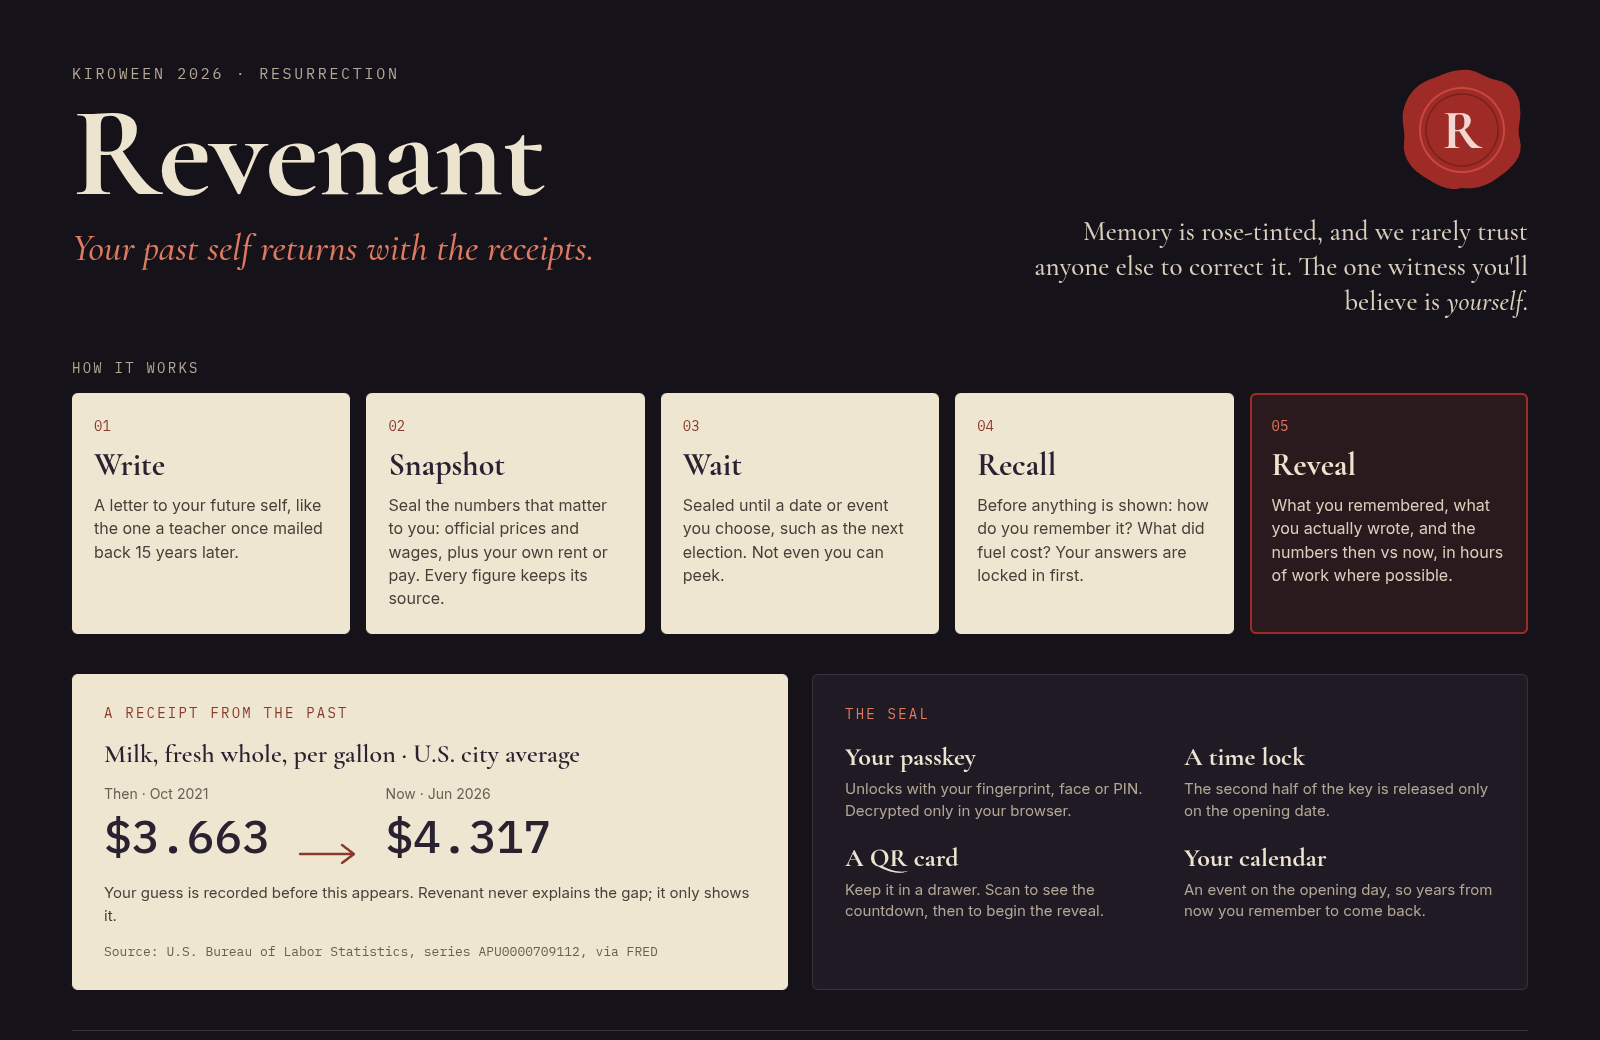
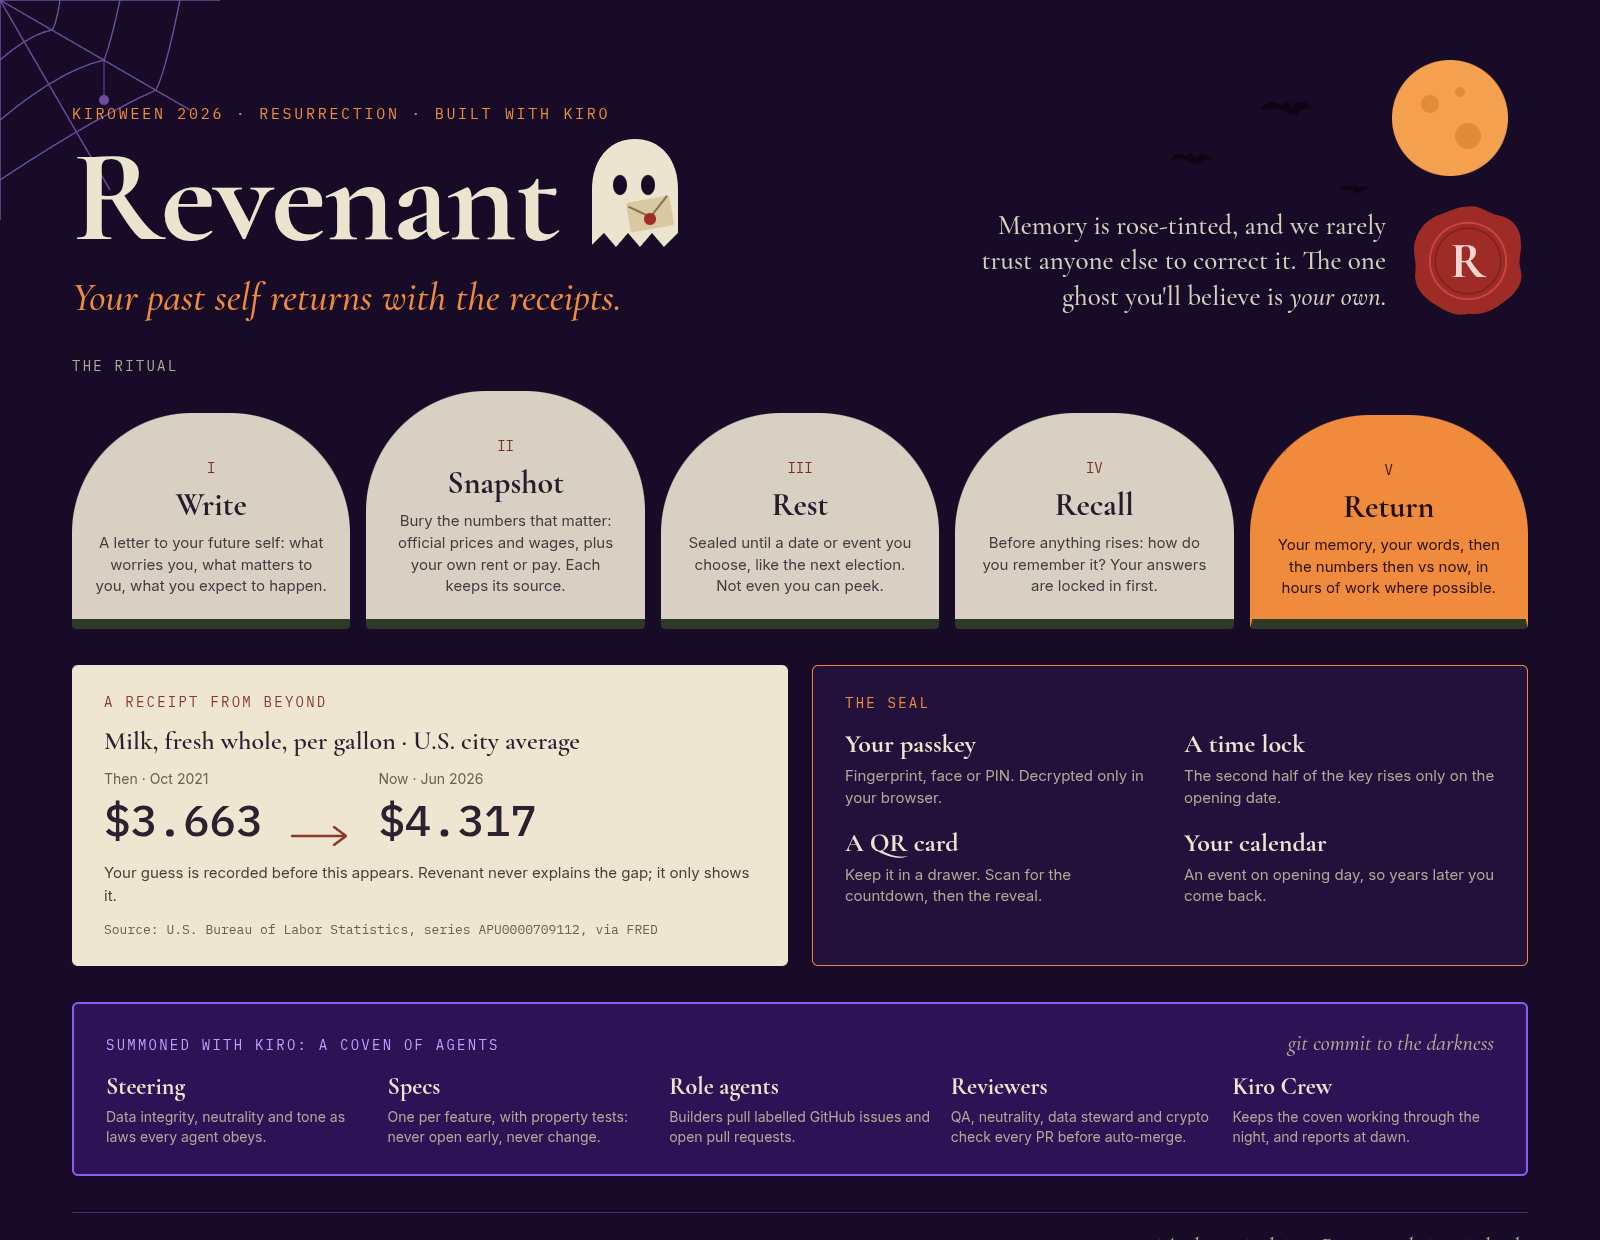
Update concept image in README, add 2x version

diff --git a/README.md b/README.md
@@ -4,7 +4,7 @@
 
 Built for the Kiroween 2026 hackathon, Resurrection category. The technology being resurrected is the sealed letter to your future self: the classroom time capsule a teacher mails back years later.
 
-![Revenant design concept](docs/concept.png)
+<img src="docs/concept.png" srcset="docs/concept.png 1x, docs/concept@2x.png 2x" alt="Revenant design concept" width="800">
 
 *Design concept. Figures and some wording in the mock are illustrative and not product data.*
 
